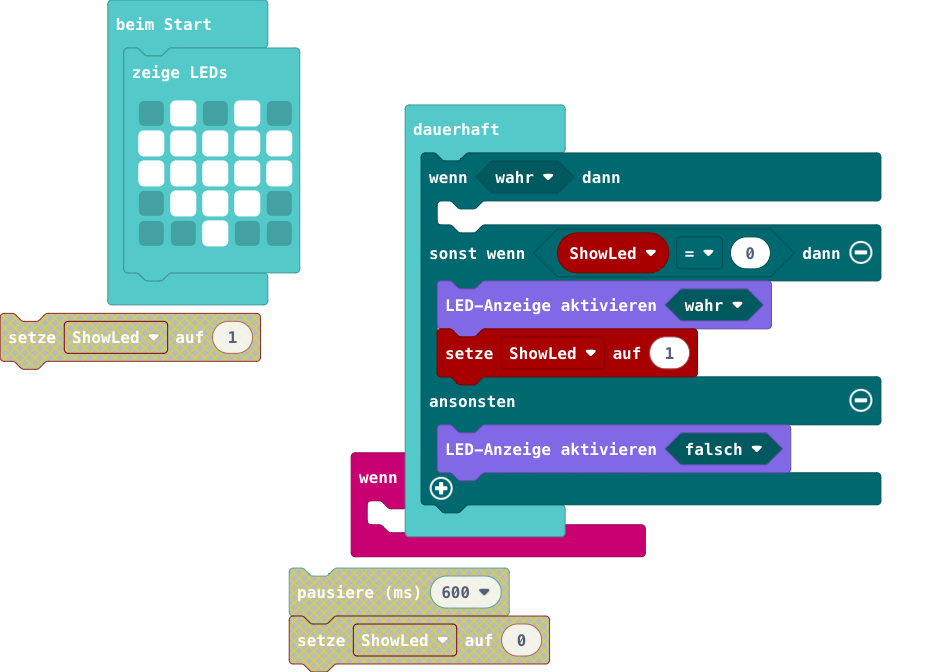
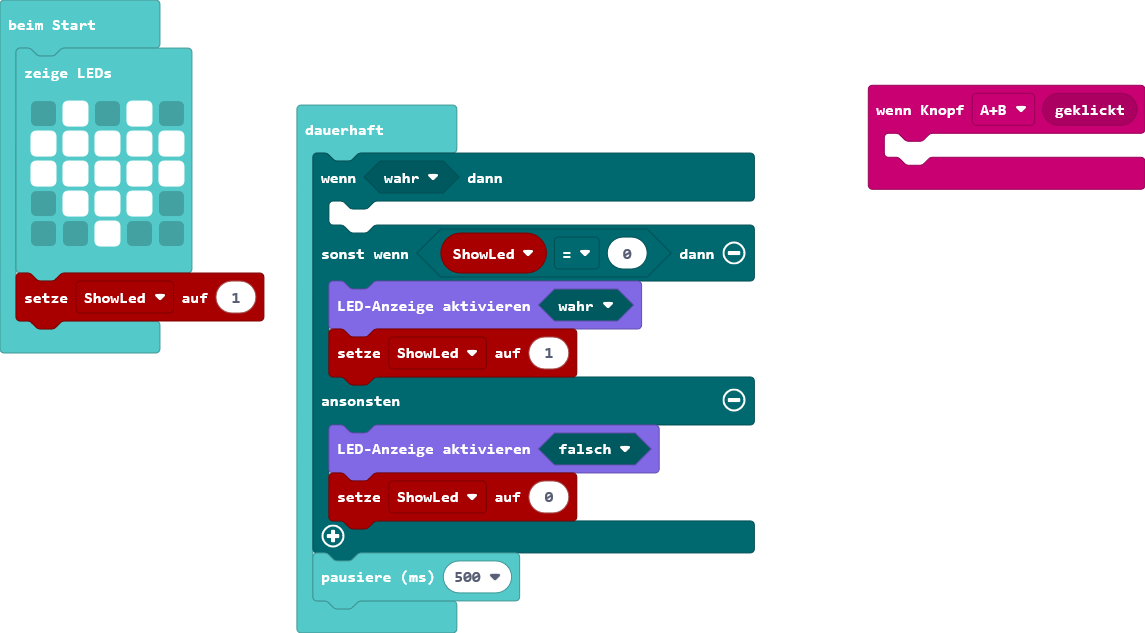
Aktualisiere main.blocks, main.ts

diff --git a/main.ts b/main.ts
@@ -1,7 +1,6 @@
 input.onButtonEvent(Button.AB, input.buttonEventClick(), function () {
 	
 })
-let ShowLed = 0
 basic.showLeds(`
     . # . # .
     # # # # #
@@ -9,6 +8,7 @@ basic.showLeds(`
     . # # # .
     . . # . .
     `)
+let ShowLed = 1
 basic.forever(function () {
     if (true) {
     	
@@ -17,5 +17,7 @@ basic.forever(function () {
         ShowLed = 1
     } else {
         led.enable(false)
+        ShowLed = 0
     }
+    basic.pause(500)
 })
